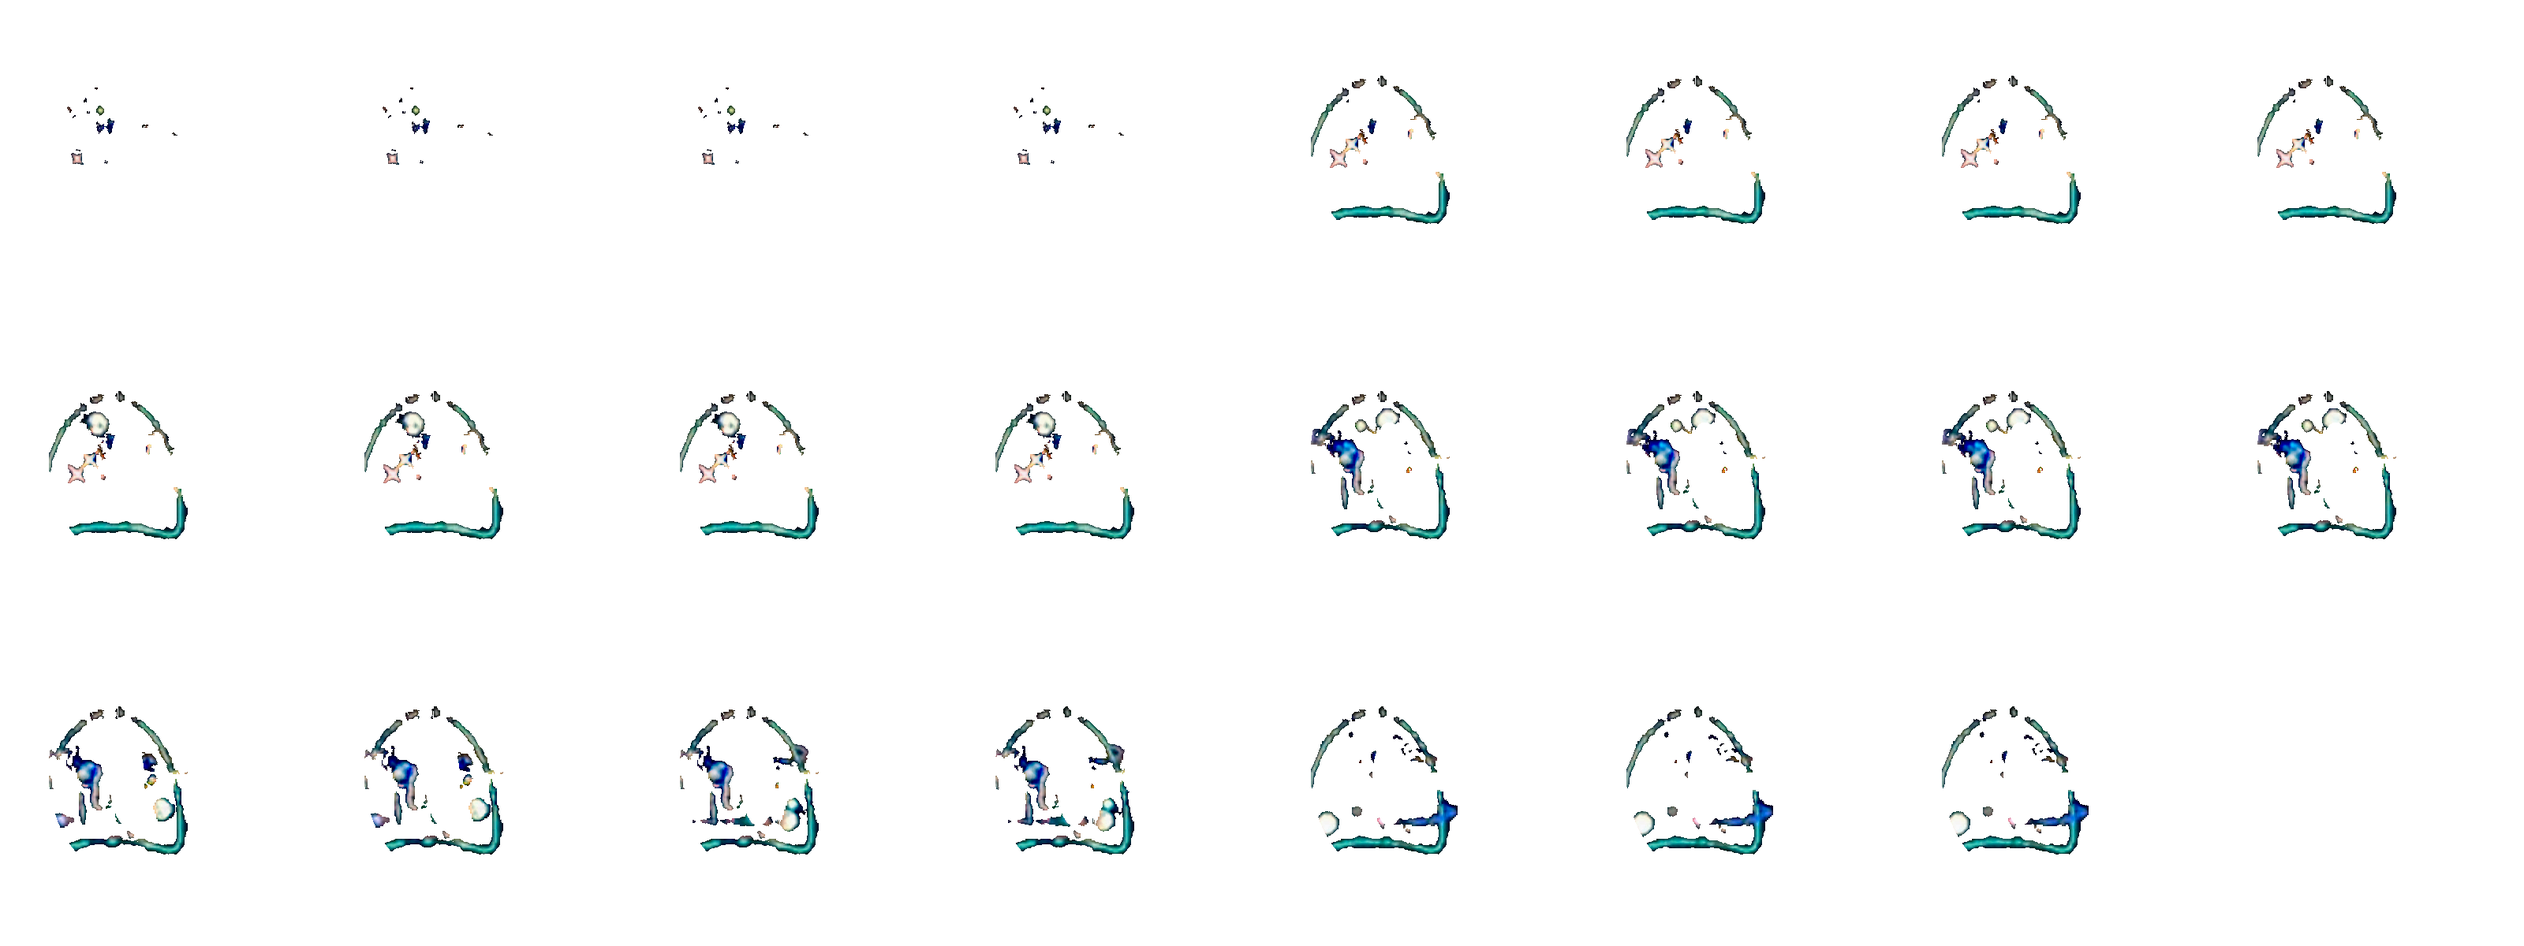
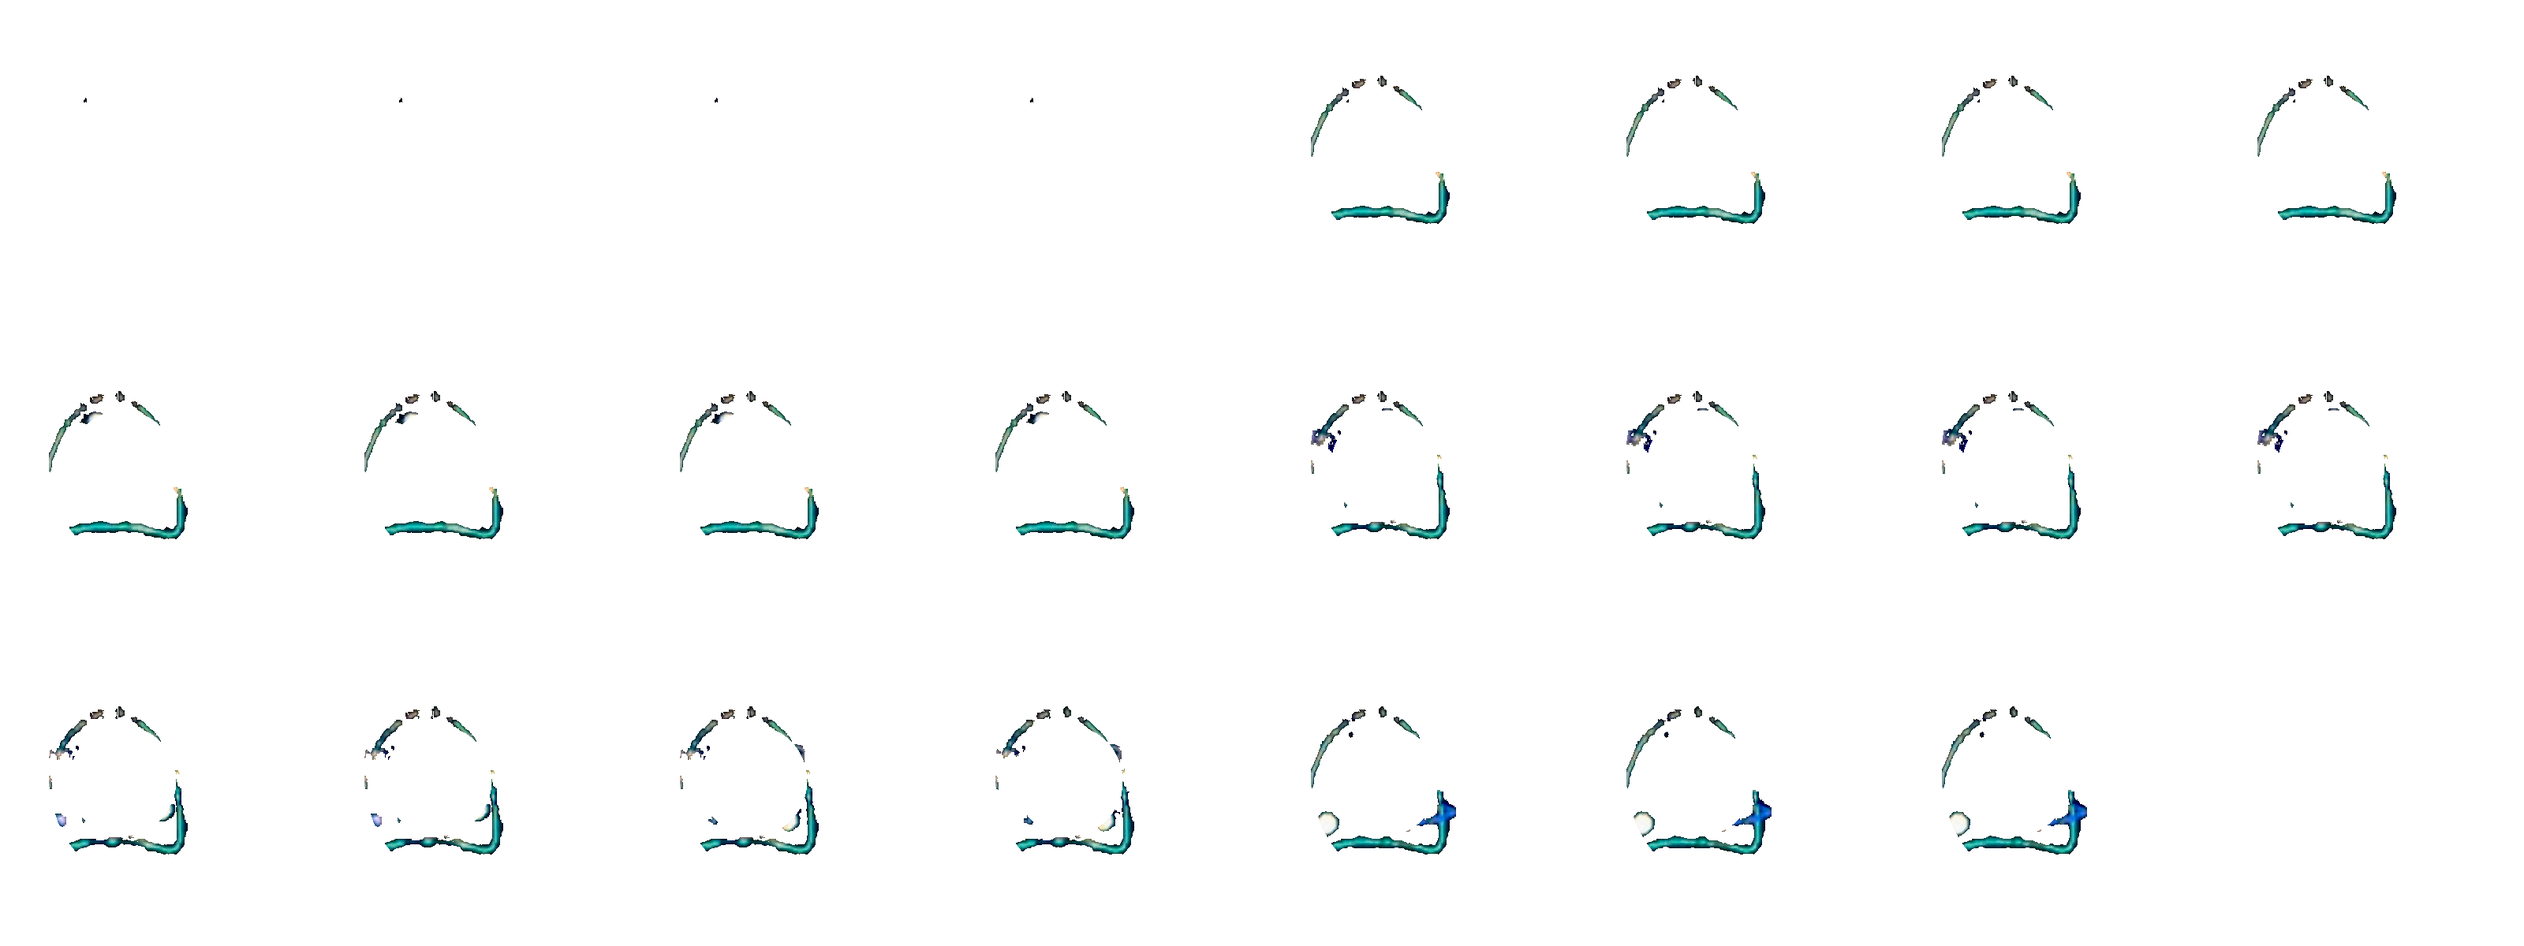
[forest-mage-v239] [v239-label-tail] Align occupied-source labels and remove captured weapon and adjacent-recipient residue

diff --git a/app/src/main/java/com/projectdark/mobile/GameView.java b/app/src/main/java/com/projectdark/mobile/GameView.java
@@ -807,7 +807,7 @@ public final class GameView extends View {
   private void drawNpcs(Canvas c){for(RuntimeState.Npc n:state.npcs())drawNpc(c,n);}
   private void drawNpc(Canvas c,RuntimeState.Npc n){if(n.id.startsWith("campaign_altar_")){boolean done=state.rpg().campaign().altarDone(n.id);p.setColor(0xff575854);c.drawOval(new RectF(n.x-22,n.y-12,n.x+22,n.y+10),p);p.setColor(0xffa5a393);c.drawRect(n.x-12,n.y-30,n.x+12,n.y-4,p);p.setColor(done?0xff83e5ce:0xffbd914d);c.drawOval(new RectF(n.x-11,n.y-36,n.x+11,n.y-24),p);text(c,done?"정화 완료":n.name,n.x-26,n.y-43,9);return;}CharacterRenderer.Direction facing=CharacterRenderer.Direction.SW;boolean selected=interaction.approachNpc()==n;worldEntityRenderer.draw(c,new WorldEntityPresentationRenderer.Pose(WorldEntityPresentationRenderer.Kind.NPC,n.x,n.y,facing,CharacterRenderer.State.IDLE,0f,0f,0f,CharacterRenderer.EffectFamily.NONE,false,selected,"npc/"+n.id,null));p.setTextSize(9);p.setTypeface(UiTheme.font(true));p.setColor(0xfff6e8c8);String label=TownTravel.isManager(n.id)?NpcIdentity.forId(n.id).label():n.id.startsWith("mentor_")||n.id.startsWith("piet_")?NpcIdentity.forId(n.id).name:n.name;float tw=p.measureText(label);p.setColor(0xB51C1710);c.drawRoundRect(new RectF(n.x-tw/2-4,n.y-64,n.x+tw/2+4,n.y-51),4,4,p);p.setColor(0xfff6e8c8);c.drawText(label,n.x-tw/2,n.y-54,p);if(selected){p.setStyle(Paint.Style.STROKE);p.setStrokeWidth(1.7f);p.setColor(0xfff0d17a);c.drawCircle(n.x,n.y-23,17,p);p.setStyle(Paint.Style.FILL);}}
   private void drawMonsters(Canvas c){for(RuntimeState.Monster m:state.monsters())drawMonster(c,m);}
-  private void drawMonster(Canvas c,RuntimeState.Monster m){RuntimeState.Monster selected=combat.target();if(!m.alive)return;CharacterRenderer.Direction facing=inPoteField&&PoteForestMonsterShowcase.containsMonster(m.id)?PoteForestMonsterShowcase.presentationFacing(m):m.visualFacing.presentation();boolean isSelected=selected==m;CharacterRenderer.State poseState=WorldEntityPresentationRenderer.presentationState(m);float poseClock=m.attackPrimed?.24f-m.attackWindup:m.detourClock;float poseDuration=m.attackPrimed?.24f:1f;if(DeathVillageMonsters.actor(m.id)){deathRenderer.monster(c,m,state.skillEffects());p.setTypeface(UiTheme.font(false));p.setTextSize(8);p.setTextAlign(Paint.Align.CENTER);p.setColor(isSelected?0xffffe38b:0xfff3e8cd);c.drawText(m.name,m.x,m.y-deathRenderer.bodyHeight(m.id)-8,p);p.setTextAlign(Paint.Align.LEFT);}else if(MineHuntMonsters.actor(m.id)){if(mineHuntRenderer==null)mineHuntRenderer=new MineHuntRenderer(getContext());mineHuntRenderer.monster(c,m,state.skillEffects());p.setTypeface(UiTheme.font(false));p.setTextSize(8);p.setTextAlign(Paint.Align.CENTER);p.setColor(isSelected?0xffffe38b:0xfff3e8cd);c.drawText(m.name,m.x,m.y-mineHuntRenderer.bodyHeight(m.id)-8,p);p.setTextAlign(Paint.Align.LEFT);}else if(HorrorCastleMonsters.actor(m.id)){if(horrorRenderer==null)horrorRenderer=new HorrorCastleRenderer(getContext());horrorRenderer.monster(c,m);p.setColor(0xffead6b4);p.setTypeface(UiTheme.font(false));p.setTextSize(8);p.setTextAlign(Paint.Align.CENTER);c.drawText(m.name,m.x,m.y-55,p);p.setTextAlign(Paint.Align.LEFT);}else if(inPoteField&&PoteForestMonsterShowcase.containsMonster(m.id)){String pose=PoteForestMonsterShowcase.poseFor(m);poteFieldRenderer.drawMonster(c,m,m.x,m.y);p.setTypeface(UiTheme.font(true));p.setTextAlign(Paint.Align.CENTER);p.setTextSize(8);p.setColor(isSelected?0xffffe38b:0xfff3e8cd);c.drawText(m.name.replace(" [테스트 배치]","")+(m.level>0?" · Lv"+m.level:""),m.x,m.y-(PoteForestMonsterShowcase.bodyHeight(m.id)-11f),p);p.setTextAlign(Paint.Align.LEFT);}else if(MillesMousePresentation.isMouse(m.id)){innMouseRenderer.draw(c,m,m.x,m.y,state.skillEffects());}else worldEntityRenderer.draw(c,new WorldEntityPresentationRenderer.Pose(WorldEntityPresentationRenderer.Kind.MONSTER,m.x,m.y,facing,poseState,m.detourClock,poseClock,poseDuration,m.attackPrimed?CharacterRenderer.EffectFamily.PUNCH:CharacterRenderer.EffectFamily.NONE,m.hitFlash>0f,isSelected,"PENDING_CROP/milles/monster/"+m.id,null),MonsterCursePalette.active(state.skillEffects(),m.id));if(m.attackPrimed&&!inPoteField&&!MillesMousePresentation.isMouse(m.id)){float q=1f-Math.min(1f,m.attackWindup/.24f);p.setStyle(Paint.Style.STROKE);p.setStrokeWidth(1.6f+1.8f*q);p.setColor(0xaaff7755);c.drawCircle(m.x,m.y-18,18+6*q,p);p.setStyle(Paint.Style.FILL);}float barTop=m.y-(DeathVillageMonsters.actor(m.id)?deathRenderer.bodyHeight(m.id):MineHuntMonsters.actor(m.id)?mineHuntRenderer.bodyHeight(m.id):HorrorCastleMonsters.actor(m.id)?54f:(inPoteField&&PoteForestMonsterShowcase.containsMonster(m.id))?(PoteForestMonsterShowcase.bodyHeight(m.id)-19f):MillesMousePresentation.isMouse(m.id)?31f:40f);bar(c,m.x-18,barTop,m.x+18,barTop+5f,0xffd63442,m.hp/(float)m.maxHp);drawMonsterDamage(c,m);}
+  private void drawMonster(Canvas c,RuntimeState.Monster m){RuntimeState.Monster selected=combat.target();if(!m.alive)return;CharacterRenderer.Direction facing=inPoteField&&PoteForestMonsterShowcase.containsMonster(m.id)?PoteForestMonsterShowcase.presentationFacing(m):m.visualFacing.presentation();boolean isSelected=selected==m;CharacterRenderer.State poseState=WorldEntityPresentationRenderer.presentationState(m);float poseClock=m.attackPrimed?.24f-m.attackWindup:m.detourClock;float poseDuration=m.attackPrimed?.24f:1f;if(DeathVillageMonsters.actor(m.id)){deathRenderer.monster(c,m,state.skillEffects());p.setTypeface(UiTheme.font(false));p.setTextSize(8);p.setTextAlign(Paint.Align.CENTER);p.setColor(isSelected?0xffffe38b:0xfff3e8cd);c.drawText(m.name,m.x,m.y-deathRenderer.bodyHeight(m.id)-8,p);p.setTextAlign(Paint.Align.LEFT);}else if(MineHuntMonsters.actor(m.id)){if(mineHuntRenderer==null)mineHuntRenderer=new MineHuntRenderer(getContext());mineHuntRenderer.monster(c,m,state.skillEffects());p.setTypeface(UiTheme.font(false));p.setTextSize(8);p.setTextAlign(Paint.Align.CENTER);p.setColor(isSelected?0xffffe38b:0xfff3e8cd);c.drawText(m.name,m.x,m.y-mineHuntRenderer.bodyHeight(m.id)-8,p);p.setTextAlign(Paint.Align.LEFT);}else if(HorrorCastleMonsters.actor(m.id)){if(horrorRenderer==null)horrorRenderer=new HorrorCastleRenderer(getContext());horrorRenderer.monster(c,m);p.setColor(0xffead6b4);p.setTypeface(UiTheme.font(false));p.setTextSize(8);p.setTextAlign(Paint.Align.CENTER);c.drawText(m.name,m.x,m.y-55,p);p.setTextAlign(Paint.Align.LEFT);}else if(inPoteField&&PoteForestMonsterShowcase.containsMonster(m.id)){String pose=PoteForestMonsterShowcase.poseFor(m);poteFieldRenderer.drawMonster(c,m,m.x,m.y);p.setTypeface(UiTheme.font(true));p.setTextAlign(Paint.Align.CENTER);p.setTextSize(8);p.setColor(isSelected?0xffffe38b:0xfff3e8cd);c.drawText(m.name.replace(" [테스트 배치]","")+(m.level>0?" · Lv"+m.level:""),m.x,m.y-PoteForestMonsterShowcase.nameOffset(m.id),p);p.setTextAlign(Paint.Align.LEFT);}else if(MillesMousePresentation.isMouse(m.id)){innMouseRenderer.draw(c,m,m.x,m.y,state.skillEffects());}else worldEntityRenderer.draw(c,new WorldEntityPresentationRenderer.Pose(WorldEntityPresentationRenderer.Kind.MONSTER,m.x,m.y,facing,poseState,m.detourClock,poseClock,poseDuration,m.attackPrimed?CharacterRenderer.EffectFamily.PUNCH:CharacterRenderer.EffectFamily.NONE,m.hitFlash>0f,isSelected,"PENDING_CROP/milles/monster/"+m.id,null),MonsterCursePalette.active(state.skillEffects(),m.id));if(m.attackPrimed&&!inPoteField&&!MillesMousePresentation.isMouse(m.id)){float q=1f-Math.min(1f,m.attackWindup/.24f);p.setStyle(Paint.Style.STROKE);p.setStrokeWidth(1.6f+1.8f*q);p.setColor(0xaaff7755);c.drawCircle(m.x,m.y-18,18+6*q,p);p.setStyle(Paint.Style.FILL);}float barTop=m.y-(DeathVillageMonsters.actor(m.id)?deathRenderer.bodyHeight(m.id):MineHuntMonsters.actor(m.id)?mineHuntRenderer.bodyHeight(m.id):HorrorCastleMonsters.actor(m.id)?54f:(inPoteField&&PoteForestMonsterShowcase.containsMonster(m.id))?(PoteForestMonsterShowcase.nameOffset(m.id)-8f):MillesMousePresentation.isMouse(m.id)?31f:40f);bar(c,m.x-18,barTop,m.x+18,barTop+5f,0xffd63442,m.hp/(float)m.maxHp);drawMonsterDamage(c,m);}
   private void drawMonsterDamage(Canvas c,RuntimeState.Monster m){
     if(m.damagePopupClock<=0f)return;
     float age=Math.max(0f,.65f-m.damagePopupClock),pulse=1f+.16f*Math.max(0f,1f-age/.12f);

diff --git a/tools/extract_mage_v239.py b/tools/extract_mage_v239.py
@@ -18,8 +18,8 @@ def main():
  specs=[(51,'delis',51.35,1.15,(780,180,400,400),165,190,.35),
         (52,'fortress',56.9,1.15,(780,180,400,400),165,190,.35),
         (39,'ice',62.25,.60,(900,80,260,350),115,270,.35),
-        (41,'storm',70.30,.55,(800,130,360,330),170,220,.30),
-        (42,'flare',78.40,.55,(820,80,230,350),110,270,.35)]
+        (41,'storm',70.30,.55,(800,130,360,330),260,200,.30),
+        (42,'flare',78.40,.55,(820,80,230,350),55,210,.35)]
  for ident,name,t,d,box,px,py,scale in specs:
   raw=decode(a.video,t,d,box);z=raw.astype(float);r,g,b=z[:,:,:,0],z[:,:,:,1],z[:,:,:,2]
   h,w=raw.shape[1:3];yy,xx=np.mgrid[:h,:w]
@@ -28,8 +28,10 @@ def main():
    plate=np.median(decode(a.video,53,.35,box),axis=0)
    diff=z-plate[None];keep=(diff.max(axis=-1)>12)&(b>r*.65)&(b>g*.65)&(b>80)
    # Stable filmed actor/weapon core, explicit occlusion rather than invented fill.
-   core=((xx-161)/22)**2+((yy-191)/56)**2<1
+   core=((xx-155)/68)**2+((yy-190)/70)**2<1
    keep[:,core]=False;keep[:,:76]=False
+   keep &= ~((r>g*1.20)&(r>b*1.15))
+   keep[:,186:230,82:136]=False
    support=((xx-161)/100)**2+((yy-178)/135)**2<1;keep &=support[None]
   elif ident==39:
    keep=(b>155)&(b>r*1.10)&(b>g*1.02)&(g>95)
@@ -37,10 +39,10 @@ def main():
    keep[:,220:]=False
   elif ident==41:
    keep=(g>205)&(g>r*.95)&(b>115)&(g>b*.90)
-   keep &= (((xx-170)/154)**2+((yy-147)/144)**2<1)[None]
+   keep &= (((xx-260)/78)**2+((yy-140)/115)**2<1)[None]
   elif ident==42:
    keep=(r>225)&(g>155)&(b>65)&(r>g*.96)&(g>b*1.1)
-   keep &= (((xx-110)/88)**2+((yy-150)/137)**2<1)[None]
+   keep &= (((xx-55)/67)**2+((yy-150)/120)**2<1)[None]
   else:
    keep=(r>115)&(abs(r-g)<26)&(abs(g-b)<27)&((z-plate[None]).max(axis=-1)>26)
    keep &= (((xx-130)/110)**2+((yy-132)/104)**2<1)[None]
@@ -48,7 +50,10 @@ def main():
   keep[:,:12]=False
   for i in range(len(keep)):
    lab,n=ndimage.label(keep[i]);sizes=np.bincount(lab.ravel());sizes[0]=0
-   keep[i]&=sizes[lab]>=(100 if ident==41 else 8)
+   keep[i]&=sizes[lab]>=(100 if ident==41 else 60 if ident==42 else 8)
+   if ident in (41,42):
+    for component,sl in enumerate(ndimage.find_objects(lab),1):
+     if sl is not None and sl[0].stop-sl[0].start<10:keep[i][lab==component]=False
   rgba=np.zeros((*raw.shape[:3],4),np.uint8)
   signal=np.clip((z-plate[None]-3)/(255-plate[None]).clip(20)*255,0,255).astype(np.uint8)
   rgba[:,:,:,:3]=signal;rgba[:,:,:,3]=keep.astype(np.uint8)*255;rgba[~keep]=0

diff --git a/app/src/main/java/com/projectdark/mobile/PoteForestMonsterShowcase.java b/app/src/main/java/com/projectdark/mobile/PoteForestMonsterShowcase.java
@@ -49,6 +49,14 @@ public final class PoteForestMonsterShowcase {
   // V161 calibrates occupied silhouette against the same-frame source player.
   public static float bodyWidth(String id){String s=species(id);float calibrated=s==null?-1:AbelSpriteCalibration.width(s);if(calibrated>0)return calibrated;return s!=null&&s.endsWith("KOATL")?104f:bodyHeight(id);}
   public static boolean originalPote(String id){String key=ART.get(species(id));return key!=null&&key.startsWith("original_v239/");}
+  /** Text sits above the occupied source silhouette, independent of the padded 192px texture. */
+  public static float nameOffset(String id){
+    if(!originalPote(id))return bodyHeight(id)-11f;
+    String s=species(id);if(s.contains("ANTGIANT")||s.contains("ANTLION"))return 75f;
+    if(s.contains("TREANT"))return 68f;if(s.contains("WOLFRIDER"))return 59f;
+    if(s.contains("LYCAN")||s.contains("GNOLL"))return 54f;
+    if(s.contains("SILVERWOLF"))return 45f;return 41f;
+  }
   public static float bodyHeight(String id){if(originalPote(id))return 96f;String s=species(id);float calibrated=s==null?-1:AbelSpriteCalibration.height(s);if(calibrated>0)return calibrated;if("LYK_ARIEL".equals(s))return 110f;if("LYK_TYRANT".equals(s))return 95f;if("LYK_KOATL".equals(s))return 84f;if("LYK_ELECT_KOATL".equals(s))return 84f;if("LYK_PLANT_ARKPUS".equals(s)||"LYK_ARKPUS".equals(s))return 84f;if("LYK_BLUE_HACON".equals(s))return 72f;if("LYK_RED_HACON".equals(s))return 72f;if(s!=null&&s.startsWith("LYK_"))return 64f;if(s!=null&&s.startsWith("ABEL_KINGARK"))return 210f;if("ABEL_GAS".equals(s)||"ABEL_OCTOPUS".equals(s)||"ABEL_BERSERKER".equals(s)||s!=null&&s.startsWith("ABEL_OBS_"))return 60f;if("ABEL_GRAB".equals(s))return 52f;if("ABEL_PONG".equals(s))return 54f;if("ABEL_CATERPILLAR".equals(s))return 48f;if("ABEL_TURTLE".equals(s))return 52f;if("ABEL_ARKPUS".equals(s))return 60f;return s!=null&&s.contains("MANTIS")?180f:s!=null&&s.contains("TREANT")?80f:s!=null&&(s.contains("LYCAN")||s.contains("GNOLL")||s.contains("WOLFRIDER"))?72f:48f;}
   public static String species(String id){if(id==null)return null;int separator=id.indexOf('#');return separator<0?id:id.substring(0,separator);}
   public static boolean containsMonster(String id){return ART.containsKey(species(id));}

diff --git a/app/src/test/java/com/projectdark/mobile/ForestMageV239Test.java b/app/src/test/java/com/projectdark/mobile/ForestMageV239Test.java
@@ -22,6 +22,7 @@ public class ForestMageV239Test {
  }
  @Test public void originalForestPoseRegistrationPreservesNativeFootAndShowsEachDirection()throws Exception{
   String[] ids={"POTE_RED","POTE_GREEN","POTE_PURPLE","POTE_SILVER","POTE_TREANT","POTE_LYCAN","POTE_GNOLL","POTE_WOLFRIDER","POTE_ANTLION","POTE_ANTGIANT","POTE_SILVERWOLF"};
+  assertEquals(41f,PoteForestMonsterShowcase.nameOffset("POTE_PURPLE"),0f);assertEquals(59f,PoteForestMonsterShowcase.nameOffset("POTE_WOLFRIDER"),0f);
   PoteFieldRenderer renderer=new PoteFieldRenderer();Bitmap grid=Bitmap.createBitmap(1152,1100,Bitmap.Config.ARGB_8888);Canvas c=new Canvas(grid);c.drawColor(0xff514d3b);
   for(int j=0;j<ids.length;j++){
    String id=ids[j];assertTrue(PoteForestMonsterShowcase.originalPote(id));assertEquals(96f,PoteForestMonsterShowcase.bodyHeight(id),0f);
@@ -39,6 +40,13 @@ public class ForestMageV239Test {
    int z=i%3+1;change.invoke(v,"MAP_POTE_0"+z,false);assertEquals(new int[]{72,96,108}[z-1],s.monsters().size());
    WorldRuntimeAdapter world=TownInteriorTest.field(v,"poteFieldAdapter");PoteCampaignMapDef d=PoteCampaignMapDef.forId(s.currentMapId());world.camera().snapTo(d.entryX,d.entryY);
    Bitmap b=Bitmap.createBitmap(1536,864,Bitmap.Config.ARGB_8888);v.draw(new Canvas(b));
+   PoteFieldRenderer renderer=TownInteriorTest.field(v,"poteFieldRenderer");
+   long retained=0;for(String field:new String[]{"cache","hitCache","curseCache","curseHitCache"}){
+    java.util.Map<?,?> entries=(java.util.Map<?,?>)ForestPixelCacheTest.field(renderer,field);int monsters=0;
+    for(java.util.Map.Entry<?,?> e:entries.entrySet())if(String.valueOf(e.getKey()).startsWith(PoteForestMonsterShowcase.ASSET_ROOT)&&e.getValue() instanceof Bitmap){monsters++;retained+=((Bitmap)e.getValue()).getAllocationByteCount();}
+    assertTrue(field+" current-map textures "+monsters,monsters<=60);
+   }assertTrue("Four-state monster byte budget "+retained,retained<=35389440L);
+   assertTrue(((java.util.Map<?,?>)ForestPixelCacheTest.field(renderer,"floorChunks")).size()<=32);
    if(i<3)RogueRepairV232Test.save(b,"v239-forest-"+z);b.recycle();
   }
  }

diff --git a/tools/ci_scope_v216.py b/tools/ci_scope_v216.py
@@ -1,4 +1,4 @@
-"""Bounded V222 candidate gate from the last full-verified source.
+"""Exact reviewed-blob candidate gate from the last full-verified source.
 Only reviewed exact runtime blobs qualify; unknown changes fail back to full CI.
 Final integration uses manual full verification or the full-regression PR label.
 """
@@ -18,12 +18,15 @@ def classify(paths, hashes, expected, force_full=False):
     if force_full:
         return True, 'explicit final/full verification'
     for p in paths:
+        # Documentation may carry historical reviewed hashes; its current bytes do not change gameplay.
+        if p.startswith(("docs/", "verification/")):
+            continue
         if p in expected:
             if hashes.get(p) != expected[p]:
                 return True, 'unreviewed blob: ' + p
         elif not (p.startswith('docs/') or p.startswith('verification/') or p in CONFIG):
             return True, 'unreviewed path: ' + p
-    return False, 'reviewed V222 original entry/door source joins and equivalent dense collision allocation scope; focused paired/runtime workflow required'
+    return False, 'reviewed exact runtime blobs; task-specific focused workflow required; final integration remains full'
 
 def main():
     expected = json.loads((ROOT/'tools/ci_scope_v216.json').read_text())

diff --git a/tools/test_ci_scope_v216.py b/tools/test_ci_scope_v216.py
@@ -10,6 +10,9 @@ class ScopeTest(unittest.TestCase):
         self.assertTrue(classify(['app/known.java'], {}, {'app/known.java':'abc'})[0])
     def test_documentation_does_not_need_game_regression(self):
         self.assertFalse(classify(['docs/CHAT_HANDOFF.md'], {}, {})[0])
+    def test_changed_historical_document_hash_does_not_trigger_game_regression(self):
+        self.assertFalse(classify(['docs/checkpoint.md'], {'docs/checkpoint.md':'new'}, {'docs/checkpoint.md':'old'})[0])
+        self.assertTrue(classify(['docs/checkpoint.md'], {}, {}, True)[0])
     def test_final_integration_forces_full(self):
         self.assertTrue(classify([], {}, {}, True)[0])
 if __name__ == '__main__':

diff --git a/docs/V239_FOREST_MAGE_CHECKPOINT.md b/docs/V239_FOREST_MAGE_CHECKPOINT.md
@@ -1,3 +1,9 @@
+## V239 first candidate verified; final label/cache tail pending
+
+Source `f75761af002cd7ca9c63ab2a6b7c581c7e1d40aa`, focused run39854786767/job120090048845 SUCCESS; artifact12459272320, ZIP SHA25651cb3c2e20e7e333ff726f1396f991844440b0b1022be20c73685ebc64388272. 9suites/34PASS/0failure/error/skipped independently parsed; actual GameView A/B/C and132pose/5sequence native grids inspected; no phone acceptance. Follow-up changes only occupied-silhouette name/HP offsets, explicit12-trip bitmap/cache budget assertions, and CI selection maintenance. Pote original assets/core rules unchanged. Native review rejected filmed weapon-star residue and adjacent-recipient fragments: four V239 FX atlases/manifest/recipe/source receipt revised; ice bytes unchanged. Source occlusions remain transparent. Strict tail guard checks exact GameView substitutions and reuses31 unchanged native results; rerun3direct render/magic tests,6CI selector tests,APK exact source.
+
+Common39854794744 failed in old generated catalog-vs-guide-description reproducibility check before full regression, plus missing downstream image upload; not a V239 native compile failure. Triggered by stale hash for unchanged MageVisualV237Test and historical doc hashes. Preserve underlying generator discrepancy for final integration; do not claim full suite PASS. Selector keeps force_full and unknown runtime fallback, admits unchanged V238 test byte hash/source status receipt, and handles changed docs before their stale historical expected hashes (new regression test). Main integration remains full-gated.
+
 ## V239 — 추가 마법 영상 / 포테 원본 외형 개선 후보 (2026-10-23)
 
 Director 단일 편집. 기존 branch `codex/rucesion-coast-v157` / PR197 유지, main `41fe6def5120b6c33b58f609e52fbaf2ead700ee`. 마지막 성공 V238 runtime `dc6f1426b61a1584bd819ceed312e82b42002514`, run39806023052; 문서HEAD ba495f2에서 재개. V238 재빌드/검사 반복 없음.
